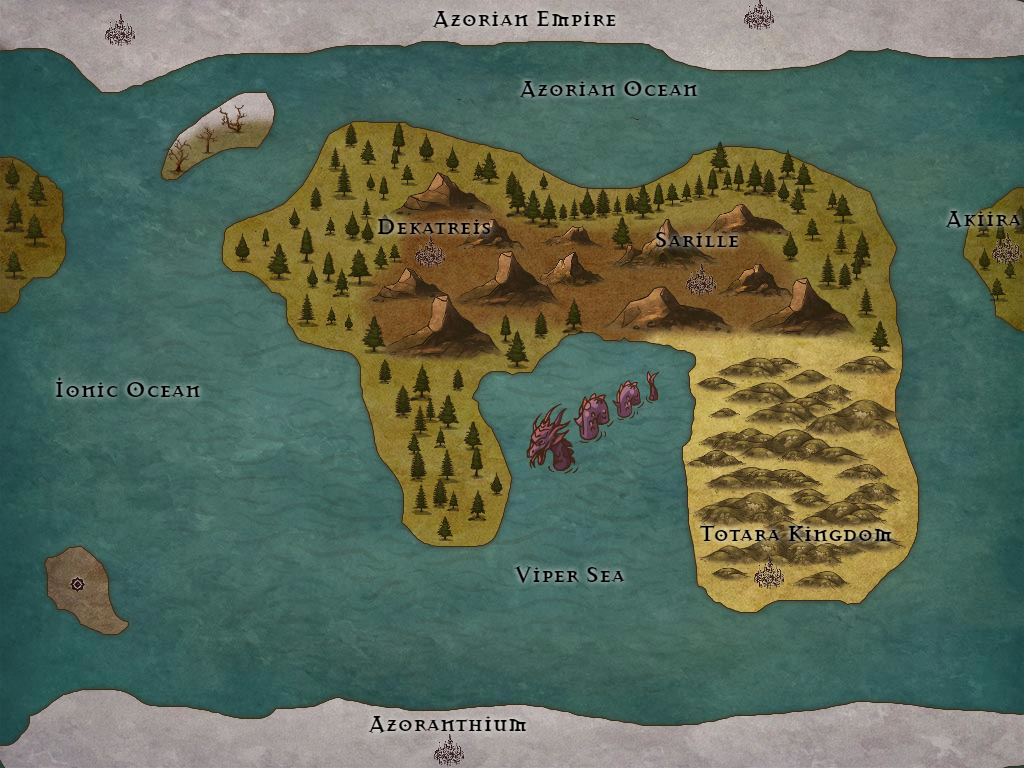
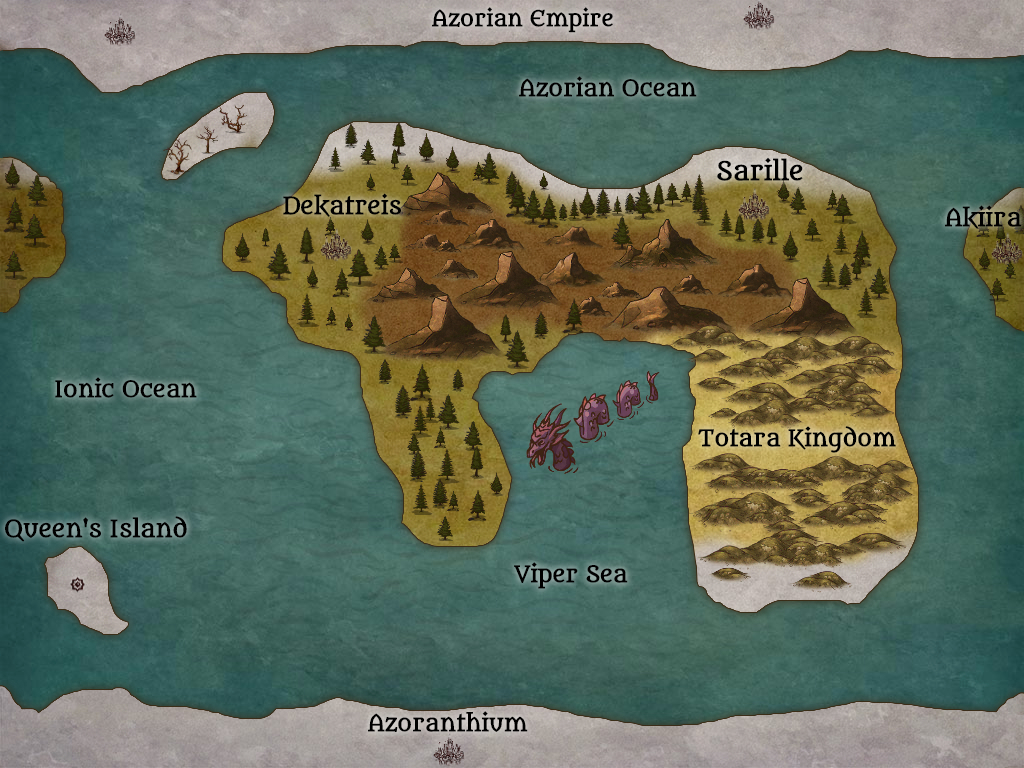
Updated map, replaced lore, added demigods/artefacts pages.

diff --git a/src/components/toclore.vue b/src/components/toclore.vue
@@ -22,7 +22,7 @@
         }
       },
       created() {
-          var loreJSON = require("../assets/lorelist.json")
+          var loreJSON = require("../assets/lore/lorelist.json")
           this.loreList = loreJSON["lore"]
       },
       methods: {
